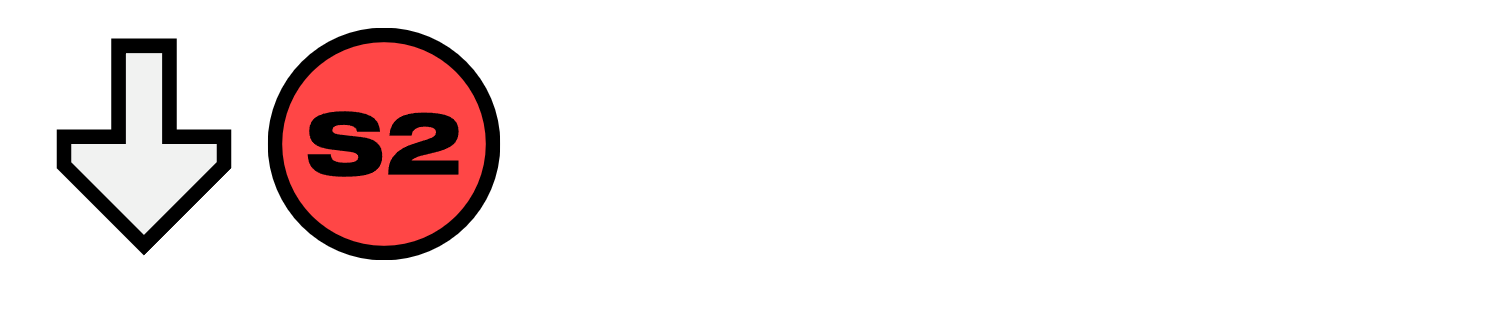
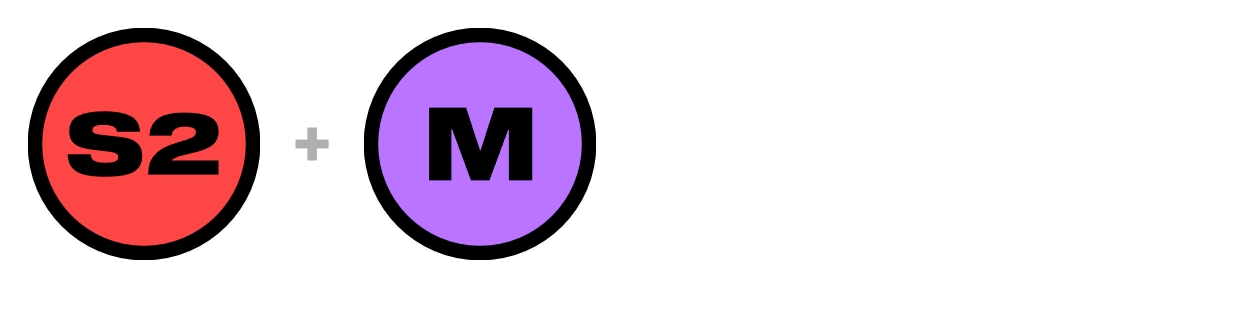
Braum finished

Changed region(s): [[0.0, 0.0865, 0.4952, 0.8365]]

diff --git a/src/data/characters/braum.js b/src/data/characters/braum.js
@@ -1,6 +1,6 @@
 export const braum = {
   name: 'Braum',
-  isComplete: false,
+  isComplete: true,
   archetype: 'bruiser',
   stats: {
     range: 2,
@@ -25,12 +25,12 @@ export const braum = {
           "Theis and his ability to dish out majorly high damage, makes Braum a unique and fun character who truly unlocks with their win condition."
         ],
         moves: [
-          { numericNotation: '5M', notation: '', notationImage: '/key-moves-notation/braum/braum1.png', description: 'Main poke to get your pressure started', video: 'videos/braum/key-moves/braum-key1.mp4' },
-          { numericNotation: '2M', notation: '', notationImage: '/key-moves-notation/braum/braum2.png', description: 'Also a good poke only been a frame slower then 5M making it 15 frames but reaches slight further then 5M', video: 'videos/braum/key-moves/braum-key2.mp4' },
-          { numericNotation: '6S1 or [6S1]', notation: '', notationImage: '/key-moves-notation/braum/braum3.png', description: 'Your only projectile can be good to catch something fullscreen or to throw it out with no charge during a blockstring', video: 'videos/braum/key-moves/braum-key3.mp4' },
-          { numericNotation: '6S1', notation: '', notationImage: '/key-moves-notation/braum/braum4.png', description: '6s1 can OTG a knockdown opponent after his 3H for his BNBs', video: 'videos/braum/key-moves/braum-key4.mp4' },
-          { numericNotation: '[6S1]', notation: '', notationImage: '/key-moves-notation/braum/braum5.png', description: '6S1 is fast and can recover in time in some situations, and they can also interrupt your opponent while you\'re getting hit', video: 'videos/braum/key-moves/braum-key5.mp4' },   
-          { numericNotation: 'S2', notation: '', notationImage: '/key-moves-notation/braum/braum6.png', description: 'Is the BRAUM SHIELD, used to protect yourself and assists. Also stops you from being killed by chip.', video: 'videos/braum/key-moves/braum-key6.mp4' },
+          { numericNotation: '5M', notation: '', notationImage: '/key-moves-notation/braum/braum1.png', description: 'Main poke to get your pressure started', video: 'videos/braum/key-moves/braum1.mp4' },
+          { numericNotation: '2M', notation: '', notationImage: '/key-moves-notation/braum/braum2.png', description: 'Also a good poke only been a frame slower then 5M making it 15 frames but reaches slight further then 5M', video: 'videos/braum/key-moves/braum2.mp4' },
+          { numericNotation: '6S1 or [6S1]', notation: '', notationImage: '/key-moves-notation/braum/braum3.png', description: 'Your only projectile can be good to catch something fullscreen or to throw it out with no charge during a blockstring', video: 'videos/braum/key-moves/braum3.mp4' },
+          { numericNotation: '6S1', notation: '', notationImage: '/key-moves-notation/braum/braum4.png', description: '6s1 can OTG a knockdown opponent after his 3H for his BNBs', video: 'videos/braum/key-moves/braum4.mp4' },
+          { numericNotation: '[6S1]', notation: '', notationImage: '/key-moves-notation/braum/braum5.png', description: '6S1 is fast and can recover in time in some situations, and they can also interrupt your opponent while you\'re getting hit', video: 'videos/braum/key-moves/braum5.mp4' },   
+          { numericNotation: 'S2', notation: '', notationImage: '/key-moves-notation/braum/braum6.png', description: 'Is the BRAUM SHIELD, used to protect yourself and assists. Also stops you from being killed by chip.', video: 'videos/braum/key-moves/braum6.mp4' },
         ]
       },
       {
@@ -55,11 +55,9 @@ export const braum = {
         description2: [
         ],
         comboEnders: [
-          { purpose: 'For Oki', numericNotation: '6S1+H', notationImage: '/combo-notation/braum/combo-enders/braum-comboEnder1.png', video: 'videos/braum/combo-enders/braum-ender1.mp4' },
-          { purpose: 'Limit Strike', numericNotation: 'S2, 6S1+[H]', notationImage: '/combo-notation/braum/combo-enders/braum-comboEnder2.png', video: 'videos/braum/combo-enders/braum-ender2.mp4' },
-          { purpose: 'Damage and Super Followups', numericNotation: '2S2', notationImage: '/combo-notation/braum/combo-enders/braum-comboEnder3.png', video: 'videos/braum/combo-enders/braum-ender3.mp4' },
-          { purpose: 'Assist Setups', numericNotation: 'S1/Charge S1', notationImage: '/combo-notation/braum/combo-enders/braum-comboEnder4.png', video: 'videos/braum/combo-enders/braum-ender4.mp4' },
-          { purpose: 'Tag Launcher', numericNotation: 'Charge jS1 > Tag Launch', notationImage: '/combo-notation/braum/combo-enders/braum-comboEnder5.png', video: 'videos/braum/combo-enders/braum-ender5.mp4' },
+          { purpose: 'For Immediate Oki', numericNotation: 'S1+L', notationImage: '/combo-notation/braum/combo-enders/braum-comboEnder1.png', video: 'videos/braum/combo-enders/braumEnder1.mp4' },
+          { purpose: 'For Unbreakable', numericNotation: 'S2>S2', notationImage: '/combo-notation/braum/combo-enders/braum-comboEnder3.png', video: 'videos/braum/combo-enders/braumEnder2.mp4' },
+          { purpose: 'For Dmg and Unbreakable', numericNotation: 'S2+M', notationImage: '/combo-notation/braum/combo-enders/braum-comboEnder4.png', video: 'videos/braum/combo-enders/braumEnder3.mp4' },``
         ],
         //below everything
         description3: [
@@ -72,45 +70,29 @@ export const braum = {
         description: '',
         teams: [
           {
-            pairing: 'Warwick',
-            fuseType: 'Double Down or Freeestyle',
-            explanation: 'If you are able to combo into the corner, ending in air S1, you can call WW before going into S2 super, tag to him, and land 2 of his 2S2 during/after the super, giving him full blood instantly',
-            videos: [
-               { id: 'HHG4Cgu7uaw' }
-            ]
-          },
-          {
-            pairing: 'Ekko or Yasuo',
-            fuseType: 'Freeestyle or 2x Assist',
-            explanation: 'Using Vi\'s double forward sway, in combination with these characters inherent ability to cross to the otherside open up many sandwhich opportunities for both characters',
-            videos: [
-              { id: 'SxOSBAEJYMY' }
-            ]
-          },
-          {
-            pairing: 'Illaoi or Jinx',
-            fuseType: '2x Assist',
-            explanation: 'Using Vi\'s forward Assist + Back assist, you get an anti-air assist that can be nearly anywhere on the screen quite quickly',
-            videos: [
-              { id: 'DCBAFBurj9c' }
-            ]
-          },
-          {
             pairing: 'Darius',
-            fuseType: 'Double Down',
-            explanation: 'After a Vi combo, ending in S2 Super, tagging to Darius, he is able to tac on a lot of damage with his S2 specials and his own S2 super before Vi\'s ends',
+            fuseType: '2x Assist',
+            explanation: 'This team is about simple gameplans and high damage. Braum shield + Amazing Darius assist = safe wall bounce combos. Use your fundamentals to win neutral, force them to the corner, either apply bleed or get unbreakable.',
             videos: [
-              { id: 'j5ErgwxieV0' }
+               { id: 'i_yBJF7k3VE' }
+            ]
+          },
+          {
+            pairing: 'Vi',
+            fuseType: 'Double Down',
+            explanation: 'Once again, Braum is all about simple gameplans. Vi enables wicked strong corner carry, a good neutral, and with charge s1 shenanigans, with Braum shield, plenty of neutral abuse.',
+            videos: [
+              { id: 'gh4td8yIdJk' }
             ]
           },
           {
             pairing: 'Ahri',
             fuseType: 'Freestyle',
-            explanation: 'The best ground movement plus the best air movement lets you be real tricky with how you approach and opens potential sandwhich options with Vi\'s Sway and charge S1 tag',
+            explanation: 'Ahri with her ability to confirm off of many buttons, and carry to the corner, eables braum to get unbreakable. Meanwhile Braum can protect ahri while she abuses multioverhead mix. She also makes up for his slower speed.',
             videos: [
-              { id: 'ptCethbZVNA' }
+              { id: 'HpWFAOu0cuw' }
             ]
-          },
+          },          
         ]
       },
       {
@@ -118,24 +100,33 @@ export const braum = {
         title: 'Top Players',
         players: [
           {
-            name: 'Zando',
+            name: 'Lighwisp',
             description: '',
             socials: {
-              twitter: 'https://x.com/zandowastaken',
-              twitch: 'http://www.twitch.tv/Zando'
+              twitch: 'https://www.twitch.tv/lightwhisp'
             },
             highlights: [
-              { id: 'EZ2mbmn7nvM' }
+              { id: 'mGRc941KzuA' }
             ]
           },
           {
-            name: 'Blaizzy',
-            description: '',
+            name: 'Galliated',
+            description: 'No socials to speak of here, but totally worth looking up Vods for Braum sauce.',
             socials: {
-              twitch: 'https://www.twitch.tv/blaizzy'
+              twitch: ''
             },
             highlights: [
-              { id: 'S3CxJx9olO0' }
+              { id: 'i_yBJF7k3VE' }
+            ]
+          },
+          {
+            name: 'MrChupy',
+            description: 'No socials to speak of here, but totally worth looking up Vods for Braum sauce.',
+            socials: {
+              twitter: 'https://x.com/Mrchupy01'
+            },
+            highlights: [
+              { id: '3XPIISjef70' }
             ]
           },
         ]